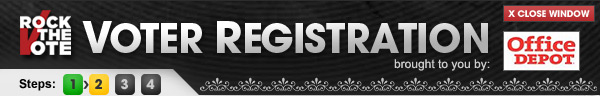
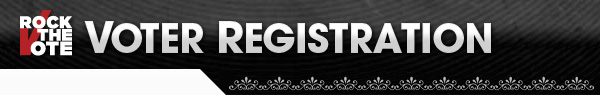
display progress indicator

diff --git a/public/stylesheets/registration.css b/public/stylesheets/registration.css
@@ -31,7 +31,37 @@ input, textarea {
 }
 
 #header {
-  
+  height: 95px;
+  background-image: url('/images/reg/header.jpg');
+  background-repeat: no-repeat;
+}
+
+#progress-bar {
+  padding: 70px 0 0 5px;
+}
+
+#progress-bar li {
+  float: left;
+  width: 27px;
+  height: 22px;
+  margin: 0 2px;
+  text-align: center;
+  font-size: 12px;
+  font-weight: bold;
+  line-height: 28px;
+  background-repeat: no-repeat;
+}
+
+#progress-bar li.progress-done {
+  background-image: url('/images/buttons/progress_done.gif');
+}
+
+#progress-bar li.progress-current {
+  background-image: url('/images/buttons/progress_current.gif');
+}
+
+#progress-bar li.progress-todo {
+  background-image: url('/images/buttons/progress_todo.gif');
 }
 
 #footer {

diff --git a/app/helpers/application_helper.rb b/app/helpers/application_helper.rb
@@ -65,4 +65,22 @@ module ApplicationHelper
     end
   end
 
+  def progress_indicator(registrant)
+    if controller.class == RegistrantsController
+      current_controller_step = 1
+    elsif controller.class.name =~ /^Step(\d)Controller$/
+      current_controller_step = $1.to_i
+    else
+      current_controller_step = -1
+    end
+      
+    (1..4).map do |step_index|
+      progress = case step_index <=> current_controller_step
+      when 0 then "progress-current"
+      when -1 then "progress-done"
+      else "progress-todo"
+      end
+      content_tag :li, step_index, :class => progress
+    end.join
+  end
 end
